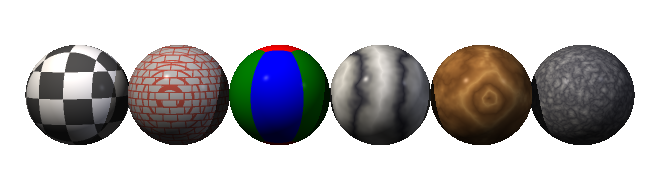
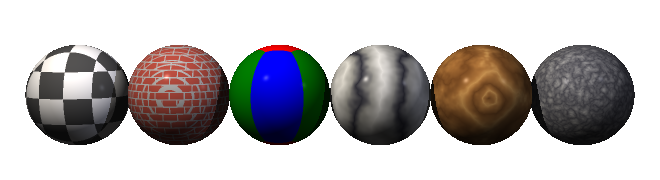
Say which of a brick pattern's colors is the mortar's
The brick pattern gives its first color to the mortar and its second
to the bricks: BrickPattern returns the first pigment for every
mortar layer, and the buildings library writes its mortar tint first.
The docs' example listed a brick red first and gray second, so it drew
gray bricks in red mortar, and the pattern sampler figure at the top
of Pigments & Patterns, made by the same lines, showed exactly that.

The example and docs/examples/pigments/patterns.igl now give the gray
first, a sentence under the example says which color is which, and
the reference row for `brick` says so too.  The sampler figure is
rendered again; only the brick ball's pixels changed.  The other docs
example that lays brick (advanced/shapes.igl) and the gallery's brick
scenes already gave the mortar first.  And "nexted" is "nested".

Changed region(s): [[0.1818, 0.25, 0.3333, 0.75]]

diff --git a/docs/reference.md b/docs/reference.md
@@ -92,7 +92,7 @@ Every word the language reserves, what it is for, and the chapter that explains 
 | `box` | Body: `shape box`, striking the scene as its own box rather than as a ball. | [Bodies](animation.md#bodies) |
 | `boxed` | Pattern: nested square boxes. | [Pigments & Patterns](pigments-and-patterns.md#patterns) |
 | `bozo` | Pattern: smooth value noise. | [Pigments & Patterns](pigments-and-patterns.md#patterns) |
-| `brick` | Pattern: running-bond brickwork. | [Pigments & Patterns](pigments-and-patterns.md#patterns) |
+| `brick` | Pattern: running-bond brickwork, its first color the mortar's and its second the bricks'. | [Pigments & Patterns](pigments-and-patterns.md#patterns) |
 | `brightness` | Light: what its color or temperature is multiplied by; `physical sky`: what the whole sky and its sun are multiplied by; an image pigment's `{ brightness b }`: what its colors are multiplied by. | [Lights](lights.md#color-temperature), [Pigments & Patterns](pigments-and-patterns.md#a-physical-sky), [Image Pigments](pigments-and-patterns.md#image-pigments) |
 | `brilliance` | Finish: sharpens or softens the diffuse falloff. | [Materials](materials.md#brilliance-and-grain) |
 | `burst` | Swarm: `burst <count> [at <time>] [over <time>]`, its copies thrown all at once, or evenly over a while, rather than in a steady flow. | [Swarms](animation.md#swarms) |

diff --git a/docs/pigments-and-patterns.md b/docs/pigments-and-patterns.md
@@ -47,7 +47,7 @@ That "either" is the important division, and it decides how you write a pattern.
 
 #### Discrete patterns
 
-These pick among a fixed number of sub-patterns (yes, patterns can be nexted).  You give
+These pick among a fixed number of sub-patterns (yes, patterns can be nested).  You give
 exactly as many as the pattern needs, separated by commas:
 
 | Pattern | Colors |
@@ -103,9 +103,11 @@ have nothing to do with one another.  The scene is
 pigment brick {
     brick size [0.5, 0.25, 0.25]
     mortar size 0.04
-    color [0.7, 0.3, 0.25], Gray70
+    Gray70, color [0.7, 0.3, 0.25]
 }
 ```
+
+**The first color is the mortar's and the second the bricks'** — gray joints round red bricks, here.
 
 #### Continuous patterns
 
